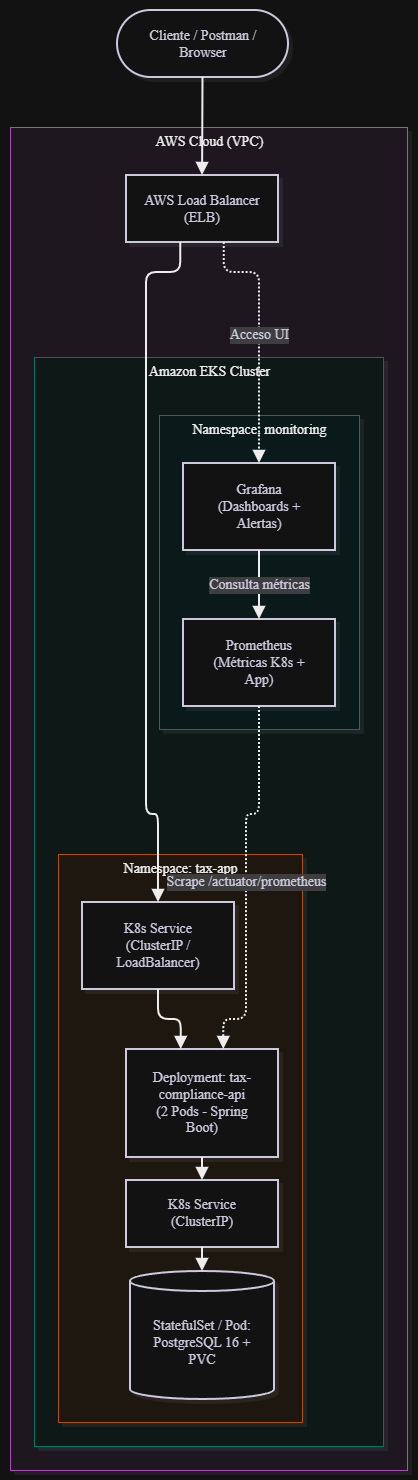
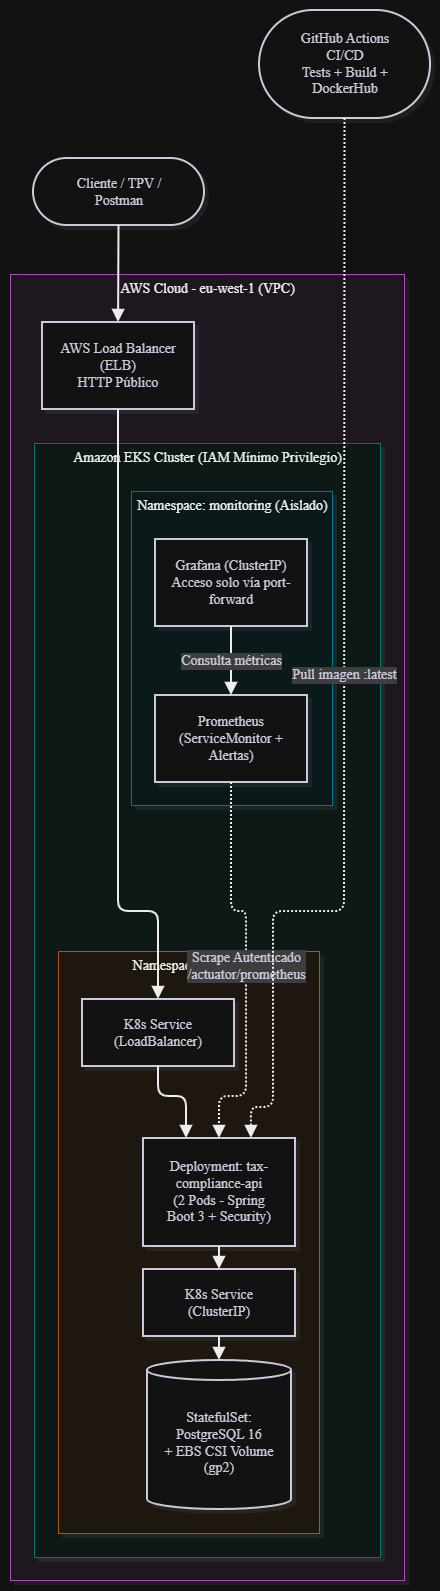
docs: update architecture diagram, dockerhub tags and README with tutor feedback

diff --git a/README.md b/README.md
@@ -1,6 +1,8 @@
 # Retail Tax & Compliance API (`tax-compliance-service`)
 
-Microservicio REST cloud-native desarrollado con **Java 21** y **Spring Boot 3** para el cálculo automatizado de impuestos indirectos (IVA/VAT) y validación de facturación internacional en operaciones de comercio minorista (*retail*), con persistencia en **PostgreSQL 16**, despliegue automatizado en **AWS EKS** mediante **Terraform** y **Kubernetes**, y observabilidad en tiempo real con **Prometheus** y **Grafana**.
+Microservicio REST cloud-native desarrollado con **Java 21** y **Spring Boot 3** para el cálculo automatizado de impuestos indirectos (IVA/VAT) y validación de facturación internacional en operaciones de comercio minorista (*retail*), con persistencia en **PostgreSQL 16**, despliegue automatizado en **AWS EKS** mediante **Terraform** y **Kubernetes**, pipeline **CI/CD con GitHub Actions** y observabilidad en tiempo real con **Prometheus** y **Grafana**.
+
+> **Nota de Alcance:** Este proyecto constituye una **demostración tecnológica (Proof of Concept)** orientada a arquitectura Cloud y DevOps. Opera con un conjunto acotado de países (`ES`, `FR`, `DE`, `PT`) y reglas fiscales básicas, sin constituir una solución certificada de cumplimiento tributario oficial.
 
 ---
 
@@ -8,33 +10,49 @@ Microservicio REST cloud-native desarrollado con **Java 21** y **Spring Boot 3**
 
 ![Diagrama de Arquitectura](docs/architecture.png)
 
-El sistema sigue una arquitectura desacoplada y escalable sobre Amazon EKS dividida en dos namespaces aislados:
-* **`tax-app`:** Expone el microservicio `tax-compliance-api` (2 réplicas detrás de un AWS Load Balancer) conectado por red interna (`ClusterIP`) a un `StatefulSet` de PostgreSQL 16 con volumen persistente EBS (`gp2`).
-* **`monitoring`:** Ejecuta el stack de observabilidad (`kube-prometheus-stack`), recolectando métricas mediante un `ServiceMonitor` desde `/actuator/prometheus` y evaluando reglas de alerta personalizadas (`PrometheusRule`).
+El sistema sigue una arquitectura desacoplada sobre **Amazon EKS** en una única región (`eu-west-1`) dividida en dos namespaces aislados:
+
+* **`tax-app`:** Expone el microservicio `tax-compliance-api` (2 réplicas detrás de un AWS Load Balancer) conectado por red interna (`ClusterIP`) a un `StatefulSet` de PostgreSQL 16 respaldado por almacenamiento persistente EBS (`gp2`) gestionado mediante el driver `aws-ebs-csi-driver`.
+    * *Decisión de arquitectura:* Se despliega PostgreSQL dentro del clúster para optimizar costes en el entorno de demostración; en un escenario productivo se migraría a **Amazon RDS** gestionado con alta disponibilidad Multi-AZ.
+* **`monitoring`:** Ejecuta el stack de observabilidad (`kube-prometheus-stack`), recolectando métricas autenticadas mediante un `ServiceMonitor` desde `/actuator/prometheus` y evaluando reglas de alerta personalizadas (`PrometheusRule`).
+
+---
+
+## Seguridad, CI/CD y FinOps
+
+* **Seguridad de Endpoints y Credenciales:**
+    * Los endpoints de auditoría (`/api/v1/compliance/audits`) y métricas (`/actuator/prometheus`) están protegidos mediante **Spring Security (HTTP Basic)** con credenciales inyectadas desde `Secrets` de Kubernetes (`tax-app-secret` y `prometheus-scrape-secret`), sin credenciales almacenadas en el repositorio.
+    * **Grafana** permanece aislado en red interna (`ClusterIP`) sin exposición pública a Internet, accediendo únicamente mediante túnel cifrado (`kubectl port-forward`).
+    * **Principio de mínimo privilegio en IAM:** El grupo de nodos de EKS limita sus políticas adicionales exclusivamente a `AmazonEBSCSIDriverPolicy` para la gestión de volúmenes persistentes.
+* **Automatización CI/CD (GitHub Actions):**
+    * Workflow `.github/workflows/ci-cd.yml` que ejecuta automáticamente los tests unitarios con Maven y base de datos en memoria H2, construye la imagen Docker multi-stage y la publica en DockerHub (`romeroperezpaula/tax-compliance-service:latest` y tag por SHA de commit) en cada `push` a `main`.
+* **Gestión de Costes (FinOps):**
+    * Desarrollo y pruebas iniciales 100 % en local con Docker Compose, desplegando en AWS únicamente durante la fase de validación y grabación.
+    * Alerta presupuestaria configurada en **AWS Budgets** ($15.00 USD/mes) y destrucción completa de recursos mediante `terraform destroy` verificando ausencia de volúmenes EBS o Load Balancers residuales.
 
 ---
 
 ## Stack Tecnológico
 
-* **Backend:** Java 21, Spring Boot 3 (Spring Web, Spring Data JPA, Validation, Actuator + Micrometer Prometheus)
-* **Base de Datos:** PostgreSQL 16 (`postgres:16-alpine`) con almacenamiento persistente EBS (`gp2`)
-* **Contenedorización:** Docker (build multi-stage) y DockerHub (`romeroperezpaula/tax-compliance-service:1.0.0`)
+* **Backend:** Java 21, Spring Boot 3.3.5 (Spring Web, Spring Data JPA, Spring Security, Validation, Actuator + Micrometer Prometheus)
+* **Base de Datos:** PostgreSQL 16 (`postgres:16-alpine`) con almacenamiento persistente EBS (`gp2`) + H2 para tests CI
+* **Contenedorización y CI/CD:** Docker (build multi-stage), DockerHub y GitHub Actions
 * **Infraestructura como Código (IaC):** Terraform (`terraform-aws-modules/vpc/aws` y `terraform-aws-modules/eks/aws` en `eu-west-1`)
 * **Orquestación:** Kubernetes en Amazon EKS (Namespaces, ConfigMaps, Secrets, StatefulSets, PVCs, Deployments con Liveness/Readiness probes, Services LoadBalancer/ClusterIP)
-* **Observabilidad y Alertas:** `kube-prometheus-stack` (Helm), `ServiceMonitor` personalizado y `PrometheusRule`
+* **Observabilidad y Alertas:** `kube-prometheus-stack` (Helm), `ServiceMonitor` autenticado y `PrometheusRule`
 
 ---
 
 ## Endpoints Principales
 
-| Método | Ruta | Descripción |
-| :--- | :--- | :--- |
-| `GET` | `/api/v1/tax-rules/{countryCode}` | Consulta los tipos impositivos vigentes y regex de validación fiscal por país (`ES`, `FR`, `DE`, `PT`) |
-| `POST` | `/api/v1/tax/calculate` | Calcula el impuesto aplicable y el importe total según país, base imponible (`baseAmount`) y categoría (`productCategory`) |
-| `POST` | `/api/v1/compliance/validate-invoice` | Valida una factura (formato NIF/VAT y cuadre de importes) y registra la auditoría en PostgreSQL |
-| `GET` | `/api/v1/compliance/audits` | Lista el historial de auditorías registradas |
-| `GET` | `/actuator/health` | Estado de salud del microservicio (`liveness` y `readiness`) |
-| `GET` | `/actuator/prometheus` | Métricas JVM, CPU y tráfico HTTP en formato Prometheus |
+| Método | Ruta | Acceso | Descripción |
+| :--- | :--- | :--- | :--- |
+| `GET` | `/api/v1/tax-rules/{countryCode}` | Público | Consulta los tipos impositivos vigentes y regex de validación fiscal por país (`ES`, `FR`, `DE`, `PT`) |
+| `POST` | `/api/v1/tax/calculate` | Público | Calcula el impuesto aplicable y el importe total según país, `baseAmount` y `productCategory` |
+| `POST` | `/api/v1/compliance/validate-invoice` | Público | Valida una factura (formato NIF/VAT y cuadre de importes) y registra la auditoría en PostgreSQL |
+| `GET` | `/api/v1/compliance/audits` | Protegido (Basic Auth) | Lista el historial de auditorías registradas |
+| `GET` | `/actuator/health` | Público | Estado de salud del microservicio (`liveness` y `readiness`) |
+| `GET` | `/actuator/prometheus` | Protegido (Basic Auth) | Métricas JVM, CPU y tráfico HTTP en formato Prometheus |
 
 ---
 
@@ -43,115 +61,105 @@ El sistema sigue una arquitectura desacoplada y escalable sobre Amazon EKS divid
 ### 1. Ejecución en Local (Maven + PostgreSQL)
 
 1. Arranca únicamente la base de datos PostgreSQL con Docker:
-
-       docker compose up -d postgres
-
-2. Ejecuta la aplicación Spring Boot:
-
-       ./mvnw spring-boot:run
-
+   ```bash
+   docker compose up -d postgres
+   ```
+2. Ejecuta la aplicación Spring Boot desde `app/`:
+   ```bash
+   cd app
+   ./mvnw spring-boot:run
+   ```
 3. La API estará disponible en `http://localhost:8080`.
-
----
 
 ### 2. Ejecución con Docker y Docker Compose
 
 1. Levanta todo el entorno (API + PostgreSQL) construyendo la imagen multi-stage:
-
-       docker compose up --build -d
-
+   ```bash
+   docker compose up --build -d
+   ```
 2. Comprueba los contenedores activos y prueba un endpoint:
-
-       docker compose ps
-       curl http://localhost:8080/api/v1/tax-rules/ES
-
+   ```bash
+   docker compose ps
+   curl http://localhost:8080/api/v1/tax-rules/ES
+   ```
 3. Para detener y limpiar el entorno local:
+   ```bash
+   docker compose down -v
+   ```
 
-       docker compose down -v
-
-*(Imagen pública disponible en DockerHub: `docker pull romeroperezpaula/tax-compliance-service:1.0.0`)*
-
----
+*(Imagen pública disponible en DockerHub: `docker pull romeroperezpaula/tax-compliance-service:latest`)*
 
 ### 3. Despliegue en AWS EKS con Terraform, Kubernetes y Prometheus/Grafana
 
-#### A. Provisionar la infraestructura con Terraform
-
-    cd terraform
-    terraform init
-    terraform apply -auto-approve
-
-#### B. Conectar `kubectl` y desplegar la aplicación (`tax-app`)
-
-    aws eks --region eu-west-1 update-kubeconfig --name retail-tax-eks
-    cd ..
-    kubectl apply -f k8s/
-    kubectl get pods -n tax-app
-    kubectl get svc tax-compliance-service -n tax-app
-
-#### C. Instalar Prometheus y Grafana (`monitoring`)
-
-    helm repo add prometheus-community https://prometheus-community.github.io/helm-charts
-    helm repo update
-    helm install prometheus-stack prometheus-community/kube-prometheus-stack --namespace monitoring --create-namespace
-    kubectl apply -f monitoring/servicemonitor-and-alert.yaml
-
-#### D. Acceso a Grafana en tiempo real
-
-    kubectl port-forward -n monitoring svc/prometheus-stack-grafana 3000:80
-
-Accede a `http://localhost:3000` (usuario `admin`; contraseña almacenada en el secret `prometheus-stack-grafana` del namespace `monitoring`) e importa el dashboard **19004** (*Spring Boot 3.x Statistics*).
-
-#### E. Limpieza de recursos en AWS (FinOps)
-
-    kubectl delete -f k8s/ --ignore-not-found
-    cd terraform
-    terraform destroy -auto-approve
+1. **Provisionar la infraestructura con Terraform:**
+   ```bash
+   cd terraform
+   terraform init
+   terraform apply -auto-approve
+   ```
+2. **Conectar `kubectl` y desplegar la aplicación (`tax-app`):**
+   ```bash
+   aws eks --region eu-west-1 update-kubeconfig --name retail-tax-eks
+   cd ..
+   kubectl apply -f k8s/
+   kubectl get pods -n tax-app
+   kubectl get svc tax-compliance-service -n tax-app
+   ```
+3. **Instalar Prometheus y Grafana (`monitoring`):**
+   ```bash
+   helm repo add prometheus-community [https://prometheus-community.github.io/helm-charts](https://prometheus-community.github.io/helm-charts)
+   helm repo update
+   helm install prometheus-stack prometheus-community/kube-prometheus-stack --namespace monitoring --create-namespace
+   kubectl apply -f monitoring/servicemonitor-and-alert.yaml
+   ```
+4. **Acceso a Grafana en tiempo real:**
+   ```bash
+   kubectl port-forward -n monitoring svc/prometheus-stack-grafana 3000:80
+   ```
+   Accede a `http://localhost:3000` (usuario `admin`; contraseña almacenada en el secret `prometheus-stack-grafana` del namespace `monitoring`) e importa el dashboard **19004** (*Spring Boot 3.x Statistics*).
+5. **Limpieza de recursos en AWS (FinOps):**
+   ```bash
+   kubectl delete -f k8s/ --ignore-not-found
+   cd terraform
+   terraform destroy -auto-approve
+   ```
 
 ---
 
-## Evidencias del Despliegue y Validación
+## Evidencias del Despliegue, CI/CD y FinOps
 
-### 1. Imagen Publicada en DockerHub
-![DockerHub Image](docs/dockerhub-image.png)
+### 1. Pipeline CI/CD Automatizado (GitHub Actions & DockerHub)
+![GitHub Actions Pipeline](docs/github-actions.png)
+![Imagen en DockerHub](docs/dockerhub-image.png)
 
-### 2. Provisión de Infraestructura con Terraform
+### 2. Provisión de Infraestructura con Terraform y Clúster EKS
 ![Terraform Apply](docs/terraform-apply.png)
+![Pods y Servicios en EKS](docs/eks-pods-services.png)
 
-### 3. Clúster EKS, Pods y Servicios Activos
-![EKS Pods and Services](docs/eks-pods-services.png)
+### 3. Pruebas End-to-End contra el AWS Load Balancer
+![Consulta de Reglas Fiscales](docs/api-tax-rules.png)
+![Cálculo de Impuestos](docs/api-calculate.png)
+![Validación de Facturas](docs/api-validate-invoice.png)
+![Historial de Auditorías](docs/api-compliance-audits.png)
 
-### 4. Pruebas End-to-End contra el AWS Load Balancer
-* **Consulta de reglas fiscales por país:**
-  ![API Tax Rules](docs/api-tax-rules.png)
-* **Cálculo de impuestos (`STANDARD` / `REDUCED`):**
-  ![API Calculate](docs/api-calculate.png)
-* **Validación de facturas y registro en PostgreSQL:**
-  ![API Validate Invoice](docs/api-validate-invoice.png)
-* **Historial de auditorías almacenadas:**
-  ![API Compliance Audits](docs/api-compliance-audits.png)
-* **Healthchecks y métricas de Actuator:**
-  ![Actuator Health and Metrics](docs/actuator.png)
+### 4. Observabilidad, Pruebas de Carga y Alertas en Grafana
+![Dashboard Grafana Spring Boot 3](docs/grafana-springboot-dashboard.png)
+![Alerta Personalizada TaxComplianceApiDown](docs/grafana-alerts.png)
 
-### 5. Observabilidad y Alertas en Tiempo Real (Prometheus & Grafana)
-* **Dashboard Spring Boot 3.x Statistics:**
-  ![Grafana Spring Boot Dashboard](docs/grafana-springboot-dashboard.png)
-* **Vista general de Prometheus y Almacenamiento:**
-  ![Grafana Prometheus Overview](docs/grafana-prometheus-overview.png)
-  ![Grafana Prometheus Storage](docs/grafana-prometheus-storage-query.png)
-* **Regla de Alerta Personalizada (`TaxComplianceApiDown`):**
-  ![Grafana Alerts](docs/grafana-alerts.png)
+### 5. Control de Costes (AWS Budgets)
+![Presupuesto AWS Budgets](docs/aws-budget.png)
 
 ---
 
 ## Estructura del Repositorio
 
-    retail-tax-compliance-api/
-    ├── src/                        # Código fuente Java 21 / Spring Boot 3
-    ├── k8s/                        # Manifiestos de Kubernetes (Namespace, ConfigMap, Secret, Postgres StatefulSet, API Deployment, Services)
-    ├── terraform/                  # Infraestructura como Código en AWS (VPC, Subredes, IAM, EKS Cluster + Node Group)
-    ├── monitoring/                 # ServiceMonitor y PrometheusRule para observabilidad y alertas
-    ├── docs/                       # Diagrama de arquitectura y capturas de despliegue en AWS/Grafana
-    ├── Dockerfile                  # Build multi-stage optimizado con JRE 21 Alpine
-    ├── docker-compose.yml          # Orquestación local de desarrollo
-    └── pom.xml                     # Dependencias Maven (Spring Web, JPA, PostgreSQL, Actuator, Micrometer)
+```text
+retail-tax-compliance-api/
+├── .github/workflows/ci-cd.yml # Pipeline CI/CD (tests Maven + H2, build Docker y push a DockerHub)
+├── app/                        # Código fuente Java 21 / Spring Boot 3, Spring Security y Dockerfile
+├── k8s/                        # Manifiestos de Kubernetes (Namespace, ConfigMap, Secrets, Postgres StatefulSet, API Deployment)
+├── terraform/                  # Infraestructura como Código en AWS (VPC, Subredes, IAM mínimo privilegio, EKS Cluster)
+├── monitoring/                 # ServiceMonitor con Basic Auth y PrometheusRule para alertas
+├── docs/                       # Diagrama de arquitectura y capturas de despliegue, CI/CD, Grafana y AWS Budgets
+└── docker-compose.yml          # Orquestación local de desarrollo
+```
